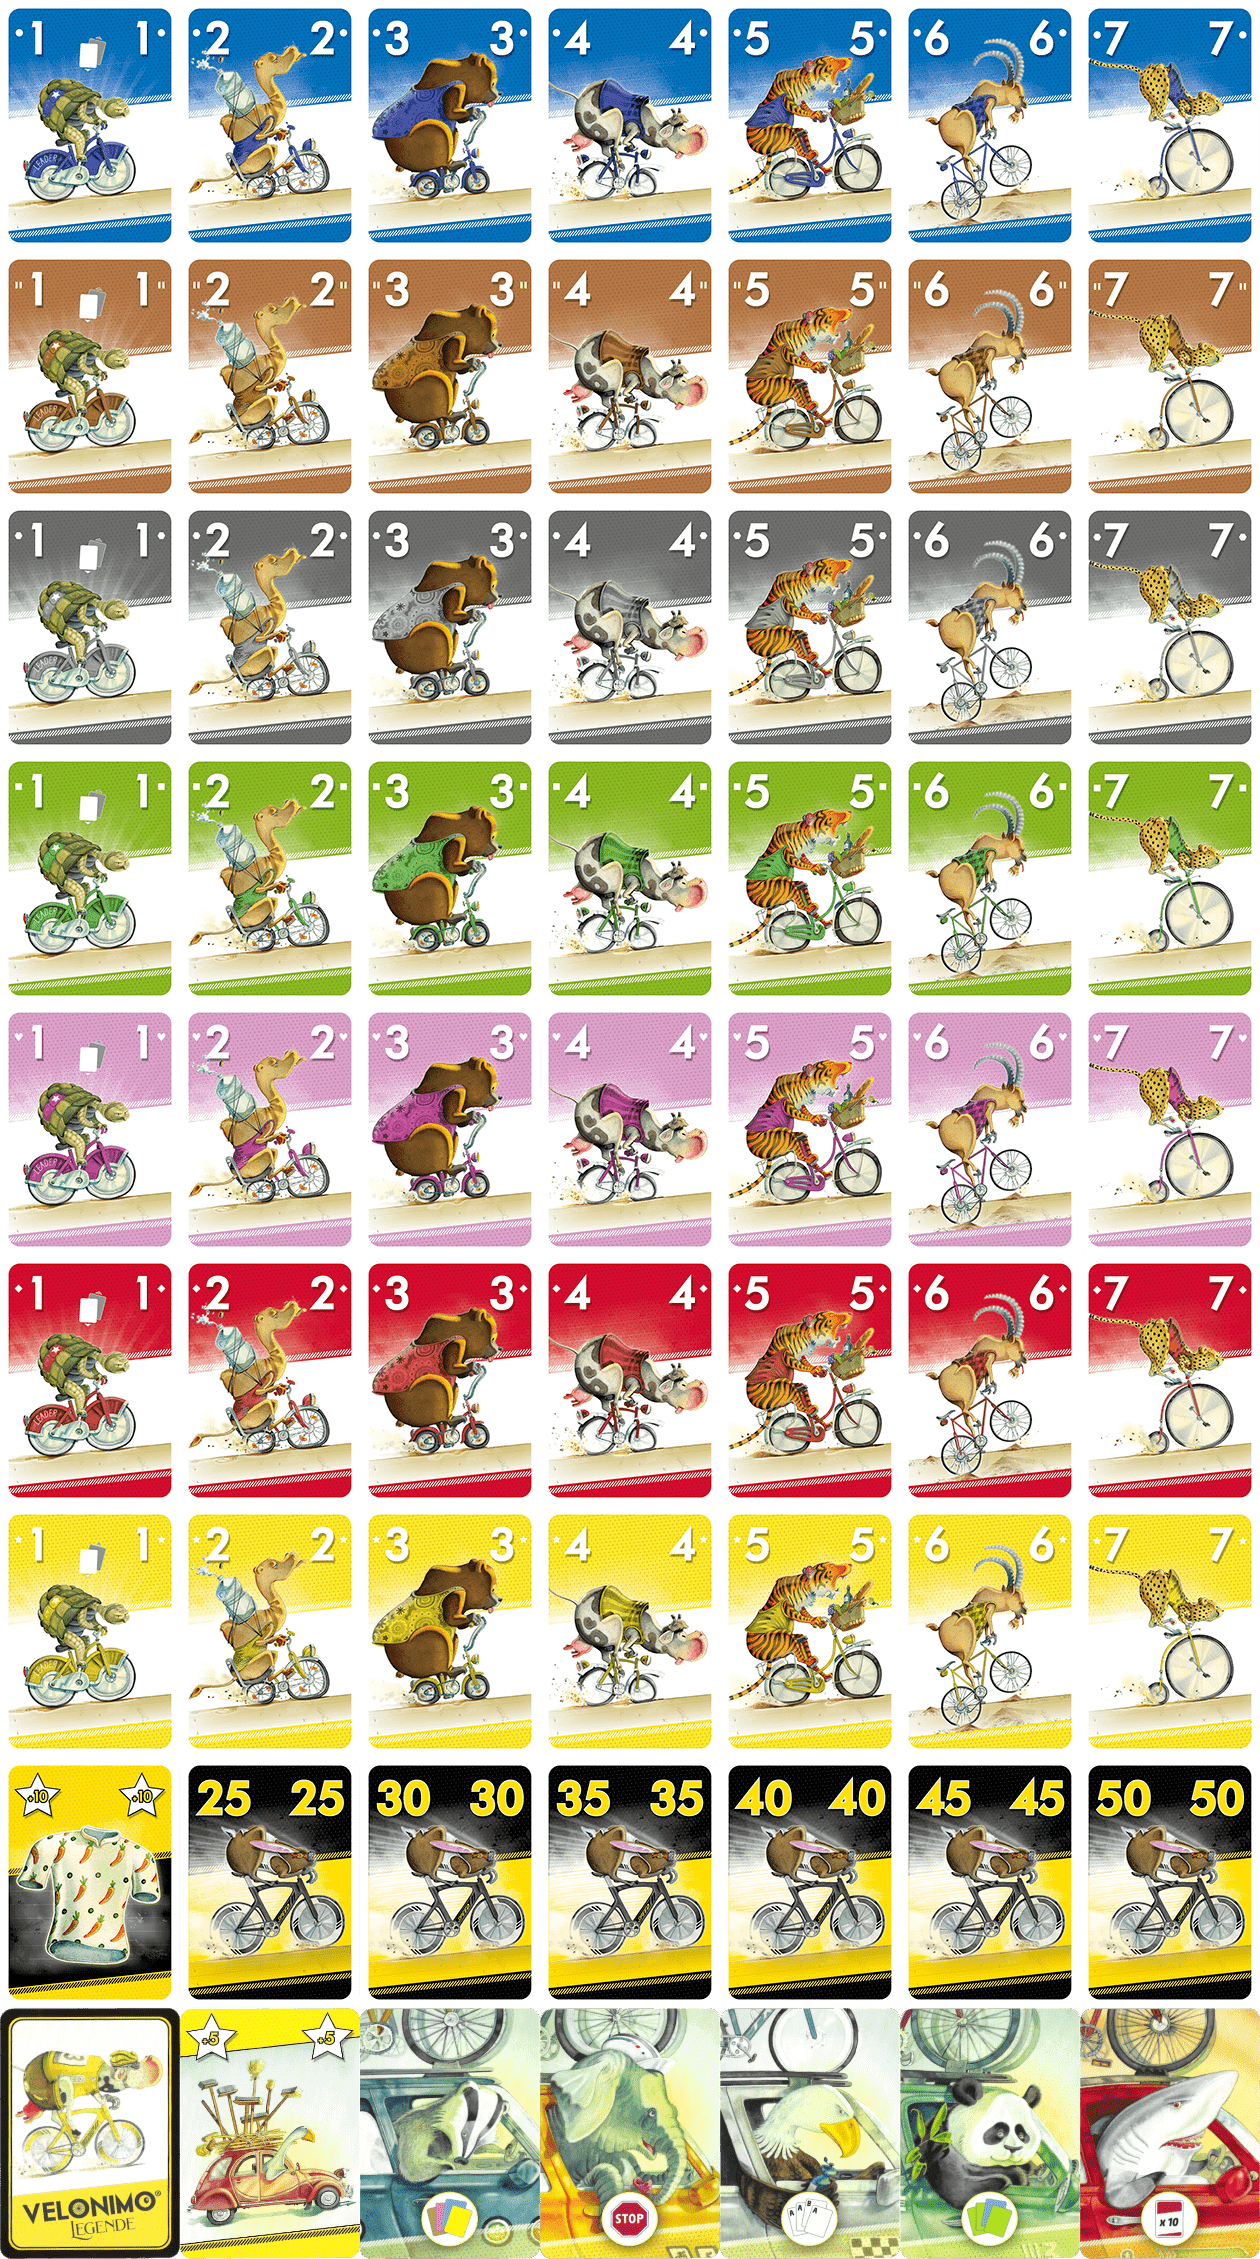
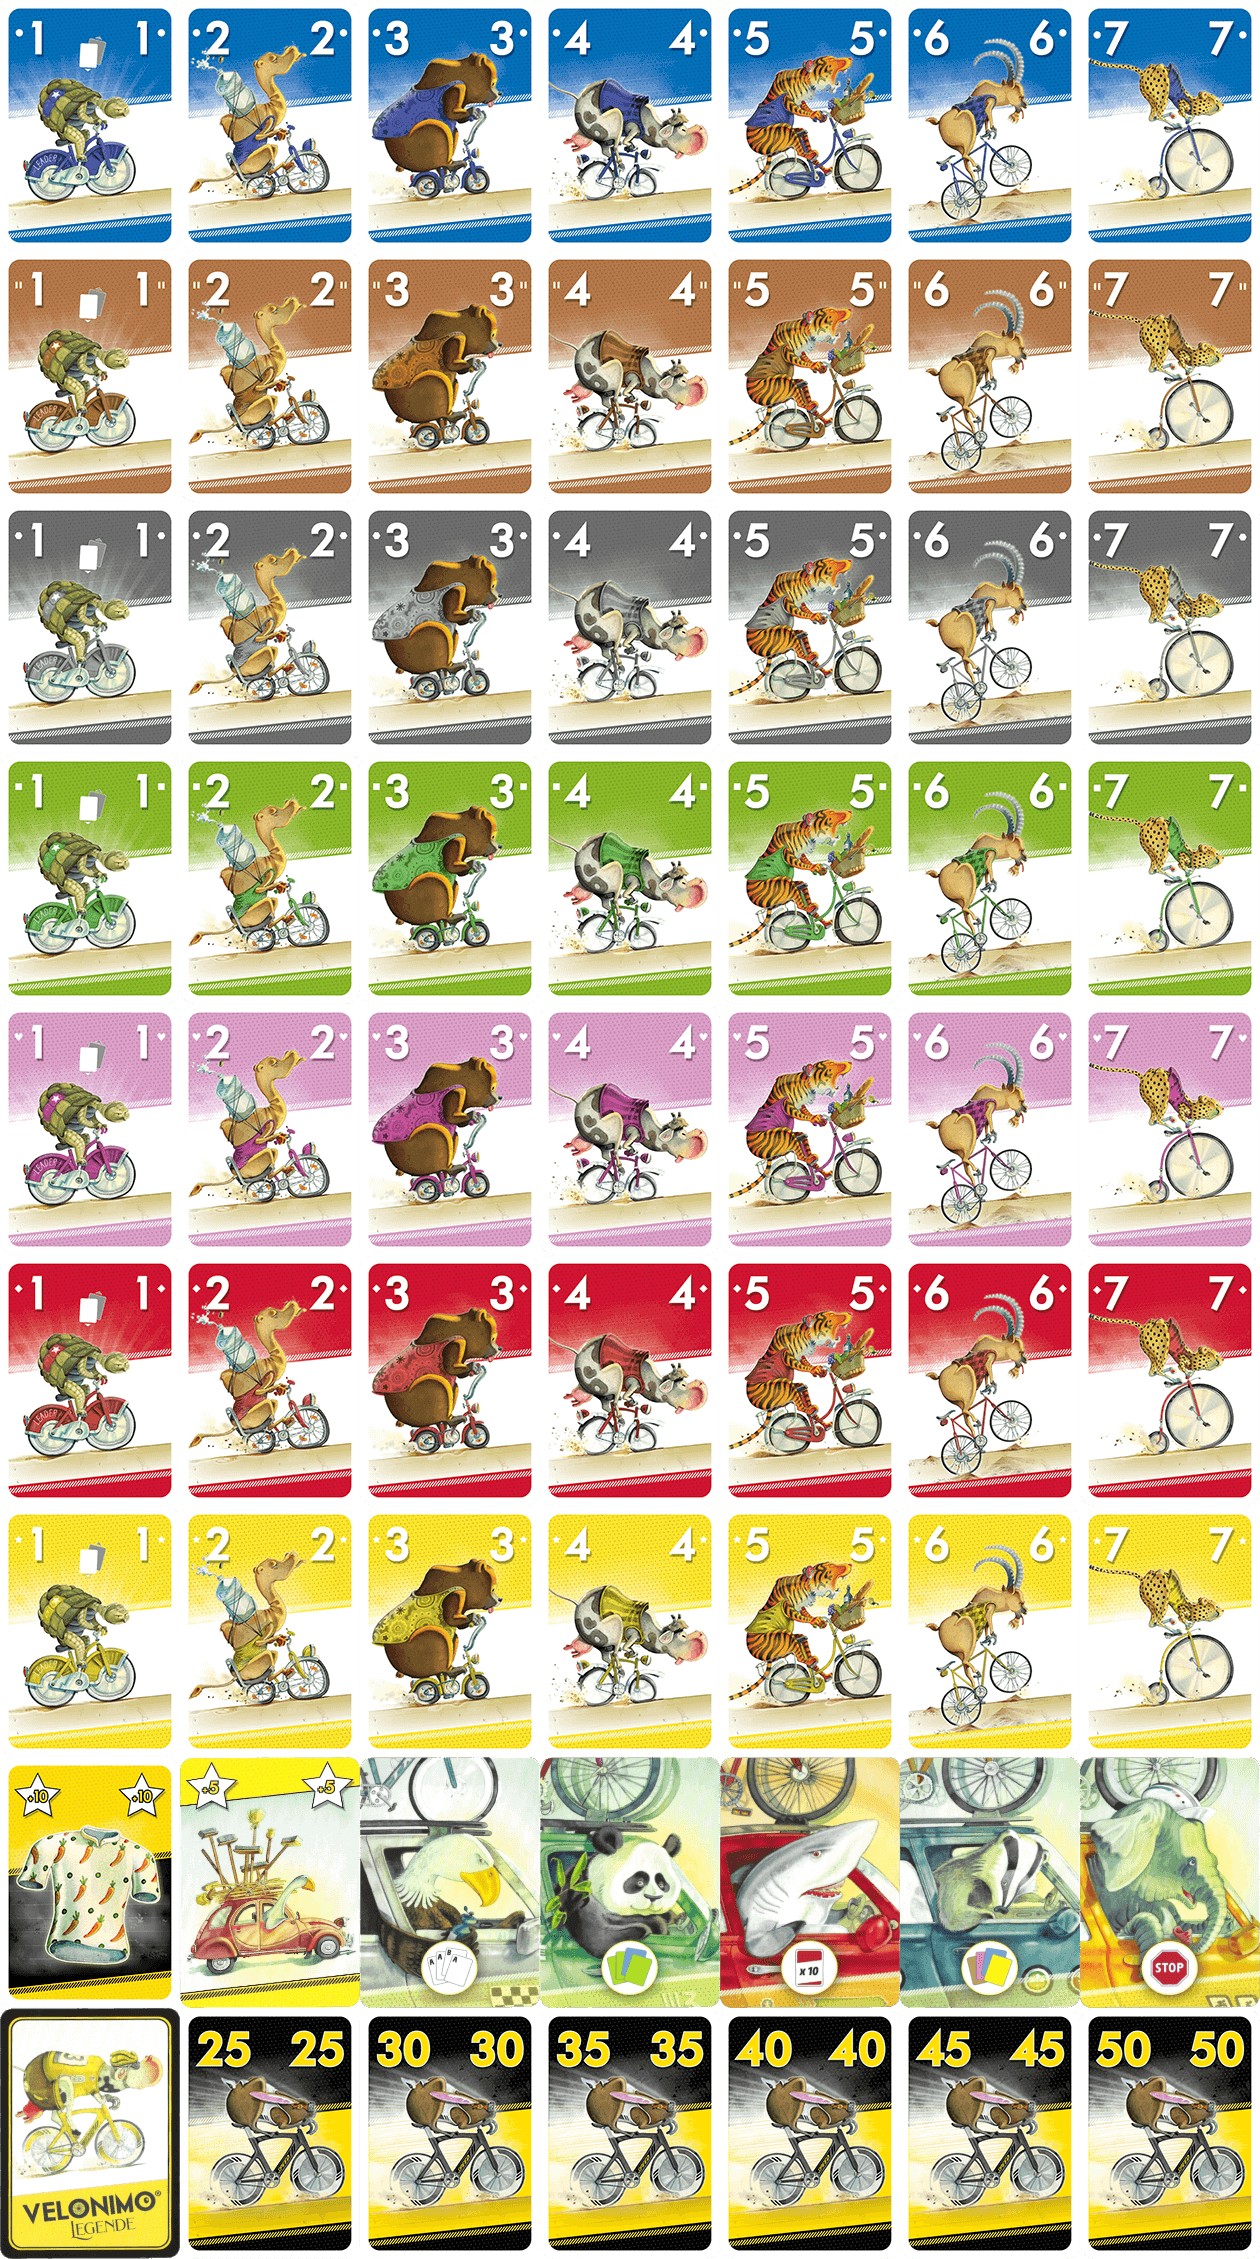
fix: update cards sprite to put legends before adventurers

Changed region(s): [[0.1238, 0.7747, 1.0, 1.0], [0.5881, 0.031, 0.619, 0.062]]

diff --git a/velonimo.js b/velonimo.js
@@ -962,38 +962,38 @@ function (dojo, declare) {
                     return 35 + value - 1;
                 case COLOR_YELLOW:
                     return 42 + value - 1;
-                case COLOR_ADVENTURER:
-                    switch (value) {
-                        case VALUE_25:
-                            return 50;
-                        case VALUE_30:
-                            return 51;
-                        case VALUE_35:
-                            return 52;
-                        case VALUE_40:
-                            return 53;
-                        case VALUE_45:
-                            return 54;
-                        case VALUE_50:
-                            return 55;
-                        default:
-                            throw new Error('Unsupported');
-                    }
                 case COLOR_SPECIAL:
                     switch (value) {
                         case VALUE_JERSEY:
                             return 49;
                         case VALUE_LEGENDS_BROOM_WAGON:
-                            return 57;
-                        case VALUE_LEGENDS_BADGER_ANY_NUMBER_OF_EACH_COLOR:
-                            return 58;
-                        case VALUE_LEGENDS_ELEPHANT_STOP:
-                            return 59;
+                            return 50;
                         case VALUE_LEGENDS_EAGLE_ADD_ONE_OTHER_NUMBER:
-                            return 60;
+                            return 51;
                         case VALUE_LEGENDS_PANDA_ADD_ONE_OTHER_COLOR:
-                            return 61;
+                            return 52;
                         case VALUE_LEGENDS_SHARK_ONE_RED_MULTIPLY_TEN:
+                            return 53;
+                        case VALUE_LEGENDS_BADGER_ANY_NUMBER_OF_EACH_COLOR:
+                            return 54;
+                        case VALUE_LEGENDS_ELEPHANT_STOP:
+                            return 55;
+                        default:
+                            throw new Error('Unsupported');
+                    }
+                case COLOR_ADVENTURER:
+                    switch (value) {
+                        case VALUE_25:
+                            return 57;
+                        case VALUE_30:
+                            return 58;
+                        case VALUE_35:
+                            return 59;
+                        case VALUE_40:
+                            return 60;
+                        case VALUE_45:
+                            return 61;
+                        case VALUE_50:
                             return 62;
                         default:
                             throw new Error('Unsupported');

diff --git a/README.md b/README.md
@@ -8,7 +8,7 @@
 
 - Create sprite from 180px wide PNG card images:
   ```shell
-  magick montage $(ls blue-*.png) $(ls brown-*.png) $(ls gray-*.png) $(ls green-*.png) $(ls pink-*.png) $(ls red-*.png) $(ls yellow-*.png) jersey.png $(ls adventurer-*.png) $(ls ext_legendes-*.png) -geometry +0+0 -tile 7x9 -mode concatenate -background none cards.png
+  magick montage $(ls blue-*.png) $(ls brown-*.png) $(ls gray-*.png) $(ls green-*.png) $(ls pink-*.png) $(ls red-*.png) $(ls yellow-*.png) $(ls special-*.png) back-ext_legendes.png $(ls adventurer-*.png) -geometry +0+0 -tile 7x9 -mode concatenate -background none cards.png
   ```
 - Reduce generated sprite size by ~90% (using https://tinypng.com or https://compresspng.com if the file is too large)
 
